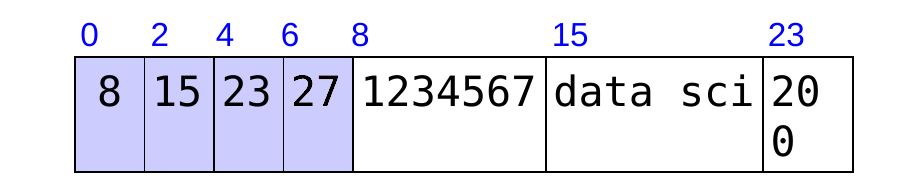
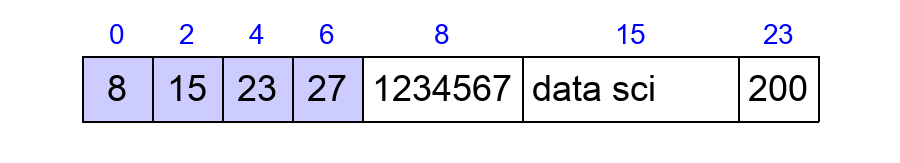
format and wording updates

diff --git a/quarto/custom.scss b/quarto/custom.scss
@@ -38,6 +38,13 @@ $presentation-h2-font-size: 1.6em;
   list-style-type: disc;
 }
 
+// Ordered-list numbers sit outside the item box (list-style-position:
+// outside) and get clipped at the slide/column left edge, and by the
+// modest indent on .sub fragments. A left gutter keeps 1. 2. visible.
+.reveal ol {
+  padding-left: 0.5em;
+}
+
 // Title slide tweaks
 .reveal #title-slide .title {
   color: #7c1717;
